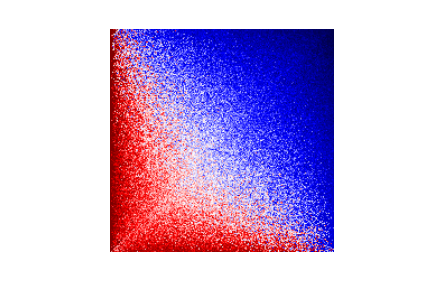
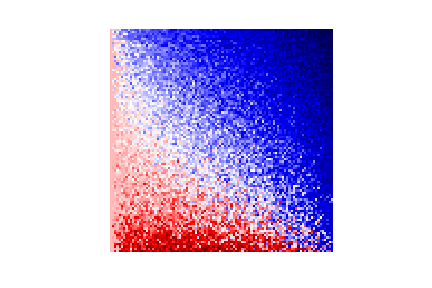
Rerun plots with JossAnn of Dual and add new plot
New plot demonstrates the ability to pass a colour map and interpolation.

diff --git a/docs/tutorials/further_topics/fingerprinting.rst b/docs/tutorials/further_topics/fingerprinting.rst
@@ -13,7 +13,7 @@ cooperating, a probability :code:`y` of defecting, and otherwise
 uses the response appropriate to the original strategy.
 We can then plot the expected score of the strategy against :code:`x` and :code:`y` and
 obtain a heat plot over the unit square.
-When :code:`x + y >= 1` the :code:`JossAnn` is created with parameters :code:`(1-y, 1-x)` and plays against the Dual of the strategy instead.
+When :code:`x + y >= 1` the :code:`JossAnn` is created with parameters :code:`(1-y, 1-x)` and plays against the Dual of the probe instead.
 A full definition and explanation is given in [Ashlock2010]_.
 
 Here is how to create a fingerprint of :code:`WinStayLoseShift` using
@@ -42,9 +42,17 @@ We can then plot the above to get::
      :align: center
 
 In reality we would need much more detail to make this plot useful.
-Using pararemeters :code:`turns=50, repetitions=2, step=0.005` we get the plot:
+Using pararemeters :code:`turns=50, repetitions=2, step=0.01` we get the plot:
 
 .. image:: _static/fingerprinting/WSLS_large.png
+     :width: 100%
+     :align: center
+
+We are also able to specify a matplotlib colour map and interpolation. Passing
+parameters :code:`col_map='PuOr', interp_method='bicubic'` to the :code:`plot()`
+function gives us this plot instead:
+
+.. image:: _static/fingerprinting/WSLS_large_alt.png
      :width: 100%
      :align: center
 
